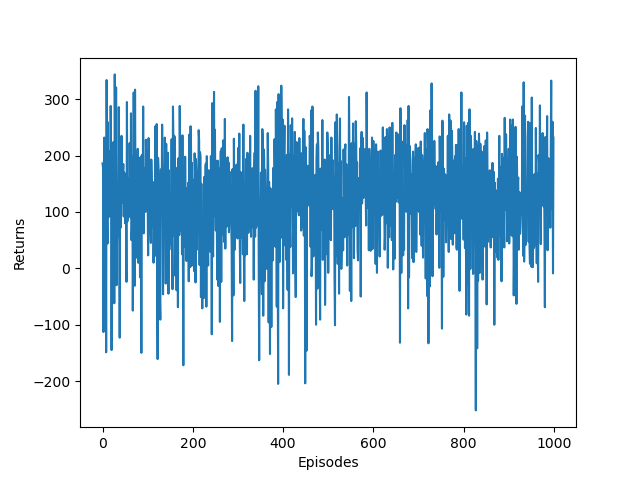
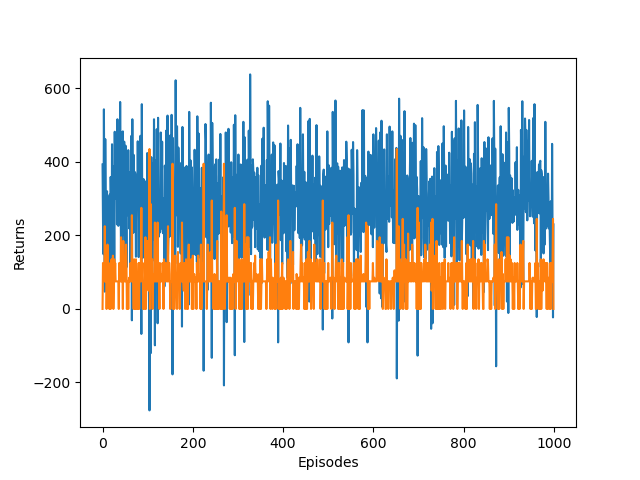
basic ghost training

diff --git a/train.py b/train.py
@@ -309,11 +309,11 @@ def train():
 
     env = PacmanEnv("local")
     pacman = PacmanPPO(lr, lmbda_pacman, epochs, eps, gamma, device, input_channel_num=4, num_actions=5, extra_info_dim=10)
-    # ghost = GhostPPO(lr, lmbda_ghost, epochs, eps, gamma, device, input_channel_num=1, num_actions=125, extra_info_dim=0)
+    ghost = GhostPPO(lr, lmbda_ghost, epochs, eps, gamma, device, input_channel_num=1, num_actions=125, extra_info_dim=0)
     pacman.net.load_state_dict(torch.load('pacman_model.pth', map_location=device))
-    # ghost.net.load_state_dict(torch.load('ghost_model.pth', map_location=device))
+    ghost.net.load_state_dict(torch.load('ghost_model.pth', map_location=device))
     pacman.net.train()
-    # ghost.net.train()
+    ghost.net.train()
 
     pacman_return_list = []
     ghost_return_list = []
@@ -328,7 +328,7 @@ def train():
                 center = state_dict['board_size'] // 2
                 # state, extra = pacman.process_state(state_dict)
                 state = pacman.process_state(state_dict)
-                # extra = ghost.process_state(state_dict)
+                extra = ghost.process_state(state_dict)
                 where = np.zeros((state_dict['board_size'], state_dict['board_size']))
                 where[state_dict['pacman_coord'][0]][state_dict['pacman_coord'][1]] = 1
                 done = False
@@ -370,17 +370,17 @@ def train():
                         else:
                             valid = True
                             print('here-------------------')
-                    # ghost_action = ghost.take_action(extra)
-                    # ghost_action = ghost.demical_to_base5(ghost_action)
+                    ghost_action = ghost.take_action(extra)
+                    ghost_actions = ghost.demical_to_base5(ghost_action)
                     # if i_episode % 5 == 0:
                     #     ghost_action = ai_func(env.game_state())
                     # else:
                     #     ghost_action = [0, 0, 0]
-                    ghost_action = [random.randint(0, 4), random.randint(0, 4), random.randint(0, 4)]
-                    next_state_dict, pacman_reward, ghost_reward, done, _ = env.step(pacmanAction=pacman_action, ghostAction=ghost_action)
+                    # ghost_action = [random.randint(0, 4), random.randint(0, 4), random.randint(0, 4)]
+                    next_state_dict, pacman_reward, ghost_reward, done, _ = env.step(pacmanAction=pacman_action, ghostAction=ghost_actions)
                     # next_state, next_extra = pacman.process_state(next_state_dict)
                     next_state = pacman.process_state(next_state_dict)
-                    # next_extra = ghost.process_state(next_state_dict)
+                    next_extra = ghost.process_state(next_state_dict)
                     extra_reward = 1 if where[next_state_dict['pacman_coord'][0]][next_state_dict['pacman_coord'][1]] == 0 else -1
                     where[next_state_dict['pacman_coord'][0]][next_state_dict['pacman_coord'][1]] = 1
                     if next_state_dict['pacman_coord'][0] == state_dict['pacman_coord'][0] and next_state_dict['pacman_coord'][1] == state_dict['pacman_coord'][1]:
@@ -388,31 +388,31 @@ def train():
                     # if pacman_reward > 40:
                     #     pacman_reward -= 50
                     transition_dict['states'].append(state)
-                    # transition_dict['extras'].append(extra)
+                    transition_dict['extras'].append(extra)
                     transition_dict['pacman_actions'].append(pacman_action)
                     print(pacman_action, torch.argmax(pacman.net(state)[0]).item(), (pacman_reward + extra_reward) * 10)
                     transition_dict['ghost_actions'].append(ghost_action)
                     transition_dict['next_states'].append(next_state)
-                    # transition_dict['next_extras'].append(next_extra)
+                    transition_dict['next_extras'].append(next_extra)
                     transition_dict['pacman_rewards'].append((pacman_reward + extra_reward) * 10)
                     transition_dict['ghost_rewards'].append((sum(ghost_reward) - pacman_reward - extra_reward) * 10)
                     transition_dict['dones'].append(done)
                     state = next_state
                     state_dict = next_state_dict
-                    # extra = next_extra
+                    extra = next_extra
                     pacman_episode_return += pacman_reward
                     ghost_episode_return += sum(ghost_reward)
 
                 pacman_return_list.append(pacman_episode_return)
                 ghost_return_list.append(ghost_episode_return)
-                pacman.update(transition_dict)
-                # ghost.update(transition_dict)
+                # pacman.update(transition_dict)
+                ghost.update(transition_dict)
                 if (i_episode + 1) % 10 == 0:
                     pbar.set_postfix({'episode': '%d' % (num_episodes / 10 * i + i_episode + 1),
                                       'return': '%.3f' % np.mean(pacman_return_list[-10:])})
                 pbar.update(1)
-            torch.save(pacman.net.state_dict(), 'pacman_model.pth')
-            # torch.save(ghost.net.state_dict(), 'ghost_model.pth')
+            # torch.save(pacman.net.state_dict(), 'pacman_model.pth')
+            torch.save(ghost.net.state_dict(), 'ghost_model.pth')
 
 
     episodes_list = list(range(len(pacman_return_list)))
